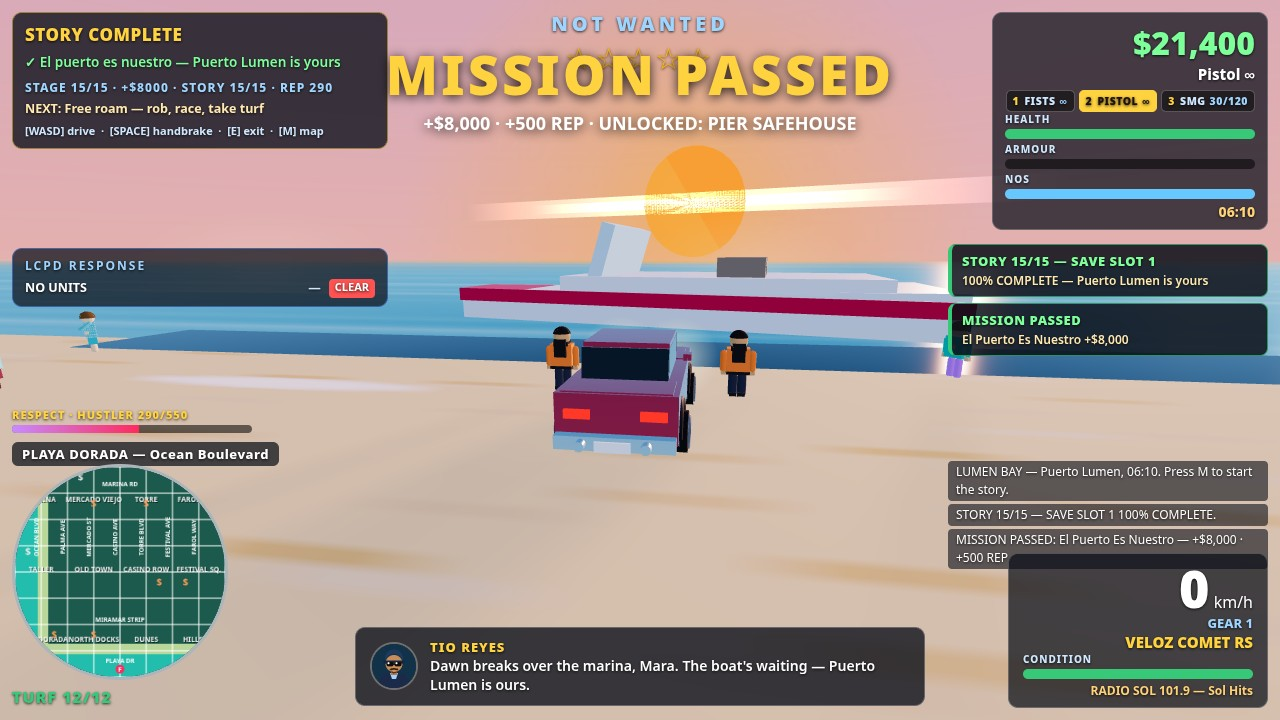
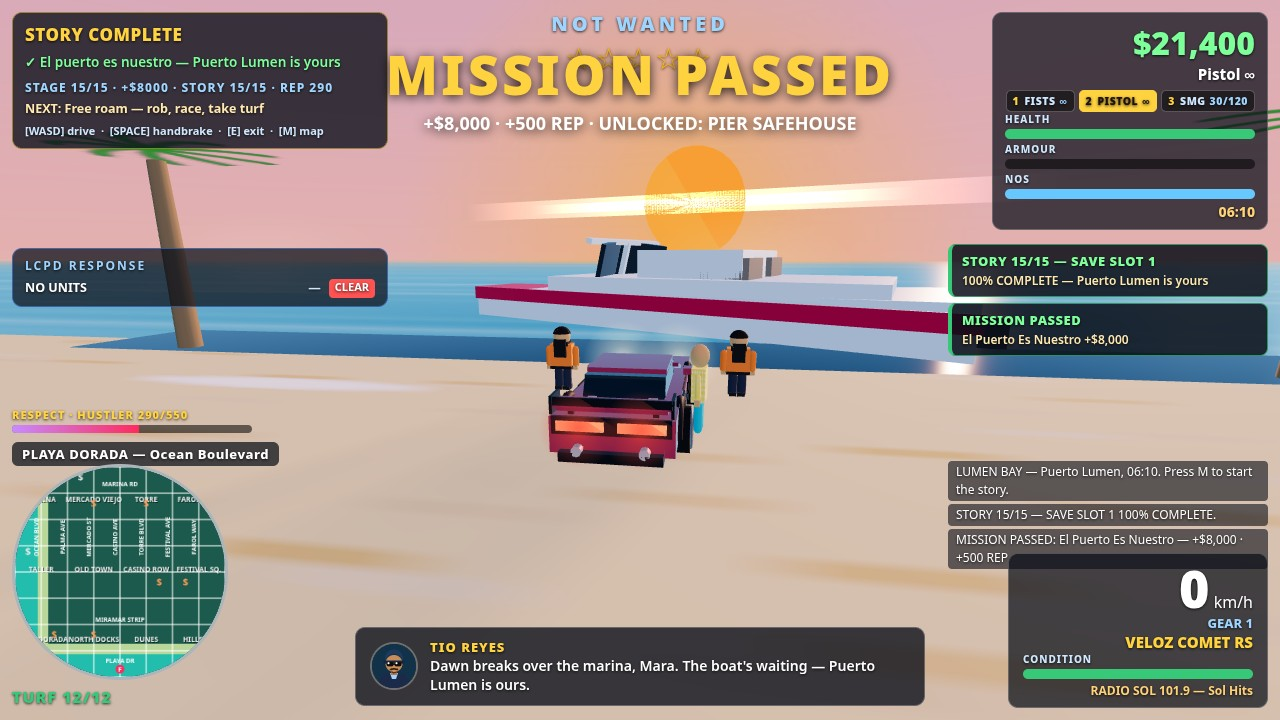
r12 shots 2+4: boulevard-world density + boat windshield/glitter
Shot 2 (keeps 3a5f34a staging: Mara back, shootout, downed cop + blood):
- The duel now happens ON the boulevard: beach road (grey asphalt +
  double-yellow + white dashes) runs through the duel, two palm rows
  stand south of the cordon behind the shootout, traffic east down
  the road — background is palms + beach + sea + sunset, not empty sand
- Downed cop + big blood pool still unmistakable, on the road's edge
- Mara/pistol/flash, cordon, heli, gold stars, no umbrella unchanged

Shot 4 (boat as focal point):
- Boat turned three-quarter (heading PI/2-0.35) so bow taper + deck
  read with depth, not a flat white wall
- Windshield rebuilt: twin raked DARK-glass panes (low-metal, low-env
  so they stay dark against the sunrise, not a white fin) + white
  frame + centre post + low white cabin block with dark window band
- Sun-glitter path on the water toward the dawn sun; framing palms
  at the waterline either side of the boat; Ferrari hero foreground
- Shot 3 untouched (sha256 e2fde756...); shot 1 byte-identical

diff --git a/game/src/main.js b/game/src/main.js
@@ -958,6 +958,19 @@ const G = {
     R.scene.add(puddle);
     return puddle;
   },
+  /** A soft sun-glitter path on the water (shot 4): a long additive
+   * radial-glow ellipse lying on the sea between the boat and the low
+   * dawn sun, so the water reads as reflecting the sunrise instead of
+   * a flat teal plane. sunGlowTexture() is a radial gradient, so the
+   * stretched ellipse fades at the edges — no hard stripe. */
+  spawnSunGlitter(x, z, w, len) {
+    const g = new THREE.Mesh(new THREE.PlaneGeometry(w || 14, len || 40),
+      new THREE.MeshBasicMaterial({ map: sunGlowTexture(), color: 0xffc98a, transparent: true, opacity: 0.5, blending: THREE.AdditiveBlending, depthWrite: false }));
+    g.rotation.x = -Math.PI / 2;
+    g.position.set(x, 0.09, z);
+    R.scene.add(g);
+    return g;
+  },
   /** Dust motes hanging in the vault's light beams — small warm additive
    sprites scattered through a box over the loot. */
   spawnDustMotes(x, z, n) {
@@ -996,7 +1009,6 @@ const G = {
     group.scale.setScalar(s || 1);
     const white = new THREE.MeshStandardMaterial({ color: 0xf2f2f2, roughness: 0.4, metalness: 0.2 });
     const red = new THREE.MeshStandardMaterial({ color: 0xe8124a, roughness: 0.4, metalness: 0.3 });
-    const glass = new THREE.MeshStandardMaterial({ color: 0xd8ecf5, roughness: 0.2, metalness: 0.2 });
     const dark = new THREE.MeshStandardMaterial({ color: 0x222226, roughness: 0.6 });
     const hullGeo = new THREE.BoxGeometry(3.2, 1.0, 9);
     const pos = hullGeo.attributes.position;
@@ -1022,8 +1034,38 @@ const G = {
     stripe.position.y = 0.55; group.add(stripe);
     const deck = new THREE.Mesh(new THREE.BoxGeometry(2.8, 0.25, 5.5), white);
     deck.position.set(0, 0.85, -0.8); group.add(deck);
-    const shield = new THREE.Mesh(new THREE.BoxGeometry(2.6, 1.0, 0.25), glass);
-    shield.position.set(0, 1.4, 1.2); shield.rotation.x = -0.3; group.add(shield);
+    // Windshield (3D-boulevard fix 2026-11-21): the old single pale
+    // slab (2.6x1.0 glass 0xd8ecf5) blew WHITE in the dawn light and
+    // read as a sail/fin sticking out of the boat, not a windshield.
+    // Now TWO raked DARK-tinted panes in a shallow V (centre crease,
+    // like a real speedboat screen) with a white frame + centre post,
+    // lower profile — the glass reads as glass, the white frame reads
+    // take used a near-mirror physical glass (metalness 0.9) that
+    // reflected the bright dawn env and blew WHITE again — this one
+    // is low-metal, low-env dark glass, so it stays a dark screen
+    // against the sunrise.
+    const boatGlass = new THREE.MeshStandardMaterial({ color: 0x14202c, roughness: 0.25, metalness: 0.3, envMapIntensity: 0.3 });
+    for (const s of [-1, 1]) {
+      const pane = new THREE.Mesh(new THREE.BoxGeometry(1.28, 0.72, 0.08), boatGlass);
+      pane.position.set(s * 0.62, 1.22, 1.15);
+      pane.rotation.set(-0.25, s * 0.32, 0);
+      group.add(pane);
+    }
+    const frameTop = new THREE.Mesh(new THREE.BoxGeometry(2.6, 0.09, 0.12), white);
+    frameTop.position.set(0, 1.58, 1.12);
+    frameTop.rotation.x = -0.25;
+    group.add(frameTop);
+    const framePost = new THREE.Mesh(new THREE.BoxGeometry(0.09, 0.72, 0.1), white);
+    framePost.position.set(0, 1.22, 1.18);
+    framePost.rotation.x = -0.25;
+    group.add(framePost);
+    const cabin = new THREE.Mesh(new THREE.BoxGeometry(2.2, 0.45, 1.8), white);
+    cabin.position.set(0, 1.2, -0.6);
+    group.add(cabin);
+    const cabinGlass = new THREE.Mesh(new THREE.BoxGeometry(0.06, 0.25, 1.6),
+      new THREE.MeshStandardMaterial({ color: 0x14202c, roughness: 0.25, metalness: 0.3, envMapIntensity: 0.3 }));
+    cabinGlass.position.set(-1.12, 1.2, -0.6);
+    group.add(cabinGlass);
     for (const sx of [-0.7, 0.7]) {
       const seat = new THREE.Mesh(new THREE.BoxGeometry(0.8, 0.6, 0.8),
         new THREE.MeshStandardMaterial({ color: 0x8a7a6a, roughness: 0.8 }));

diff --git a/game/src/shots.js b/game/src/shots.js
@@ -128,6 +128,22 @@ export function stageShot2(G) {
   G.spawnSandPatch(0xd8c098); // tan-tinted sand: the pale-cream foreground
   // survived the dusk preset + dimmed lights, so the light #f0d49a texture
   // itself is darkened here (shot 2 only — shots 1 + 4 keep the untinted patch).
+  // 3D-BOULEVARD DENSITY (2026-11-21): the 3a5f34a take staged the duel
+  // on EMPTY sand — a tan plane, a pink sky, a thin sea strip, nothing
+  // else. The shootout now happens ON the same boulevard as shot 1:
+  // the asphalt road with double-yellow + white dashes runs east-west
+  // straight through the duel (Mara at z 214, cordon z 214–218, downed
+  // cop at z 209 on the road's north edge — the blood pool at y 0.09+
+  // sits above the asphalt at 0.07, so it still reads), and two palm
+  // rows stand SOUTH of the duel (z 224 + 232) behind the cordon, so
+  // the background is palms + beach + sea + sunset sky, not void. The
+  // north row is skipped on purpose: the camera sits at z ~205 looking
+  // south, so a z 206 row would loom over the lens. Traffic east down
+  // the road (x 140–200) gives the street depth behind the duel.
+  G.spawnBeachRoad(-40, 380, 215);
+  G.spawnPalmRow(-20, 360, 224, 30);
+  G.spawnPalmRow(40, 360, 232, 30);
+  G.spawnTrafficNear(170, 215, 3);
   G.startPlay();
   G.enterCar(G.parked[0]); // hot pink-red Comet RS, the hero car
   G.warpTo(78, 222); // park the Comet south of the cordon, nose east
@@ -331,13 +347,24 @@ export function stageShot4(G) {
   G.missions.active = false;
   G.missions.objective = 'Story complete — Puerto Lumen is yours. Free roam!';
   // The getaway boat, moored IN THE WATER directly south of the car
-  // (dead-ahead in frame, centre) — 3.6x, slight three-quarter angle so
-  // the tapered bow + deck + windshield + outboard motor all read, white
-  // hull + red stripe, 32 m long so the whole boat fits in frame with
-  // margins instead of being cut off at the edges. It sits in the
-  // centre of the frame, BELOW and CLEAR of the MISSION PASSED banner —
-  // never behind it.
-  G.spawnBoat(-158, 252, Math.PI / 2 - 0.12, 3.6);
+  // (dead-ahead in frame, centre) — 3.6x, THREE-QUARTER angle
+  // (2026-11-21: the old dead side-on take read as a flat white wall —
+  // a 20-degree turn shows the tapered bow + deck + windshield with
+  // depth, like the top-10 beach scenes) so the WHOLE boat fits in
+  // frame with sea + sky around it. White hull + red stripe, 32 m
+  // long. It sits in the centre of the frame, BELOW and CLEAR of the
+  // MISSION PASSED banner — never behind it.
+  G.spawnBoat(-158, 250, Math.PI / 2 - 0.35, 3.6);
+  // Sun glitter on the water behind the boat (see spawnSunGlitter):
+  // the dawn sun sits almost dead ahead (sunPos [-150, 30, 480]), so
+  // a soft warm glow path from the boat toward the sun makes the sea
+  // reflect the sunrise. Starts clear of the stern (z 270+).
+  G.spawnSunGlitter(-158, 290, 12, 40);
+  // Framing palms at the waterline, one each side of the boat — in
+  // frame at the edges (~46-50 deg off-axis), clear of the boat, so
+  // the dawn beach reads as a place, not a void.
+  G.spawnPalmRow(-182, -182, 238, 15);
+  G.spawnPalmRow(-134, -134, 238, 15);
   // NO umbrella anywhere in shot 4 (Sand 02:08 — clear them ALL, not
   // just near the camera; the z=224 row used to loom in the foreground
   // and hide the boat behind a giant canopy).
